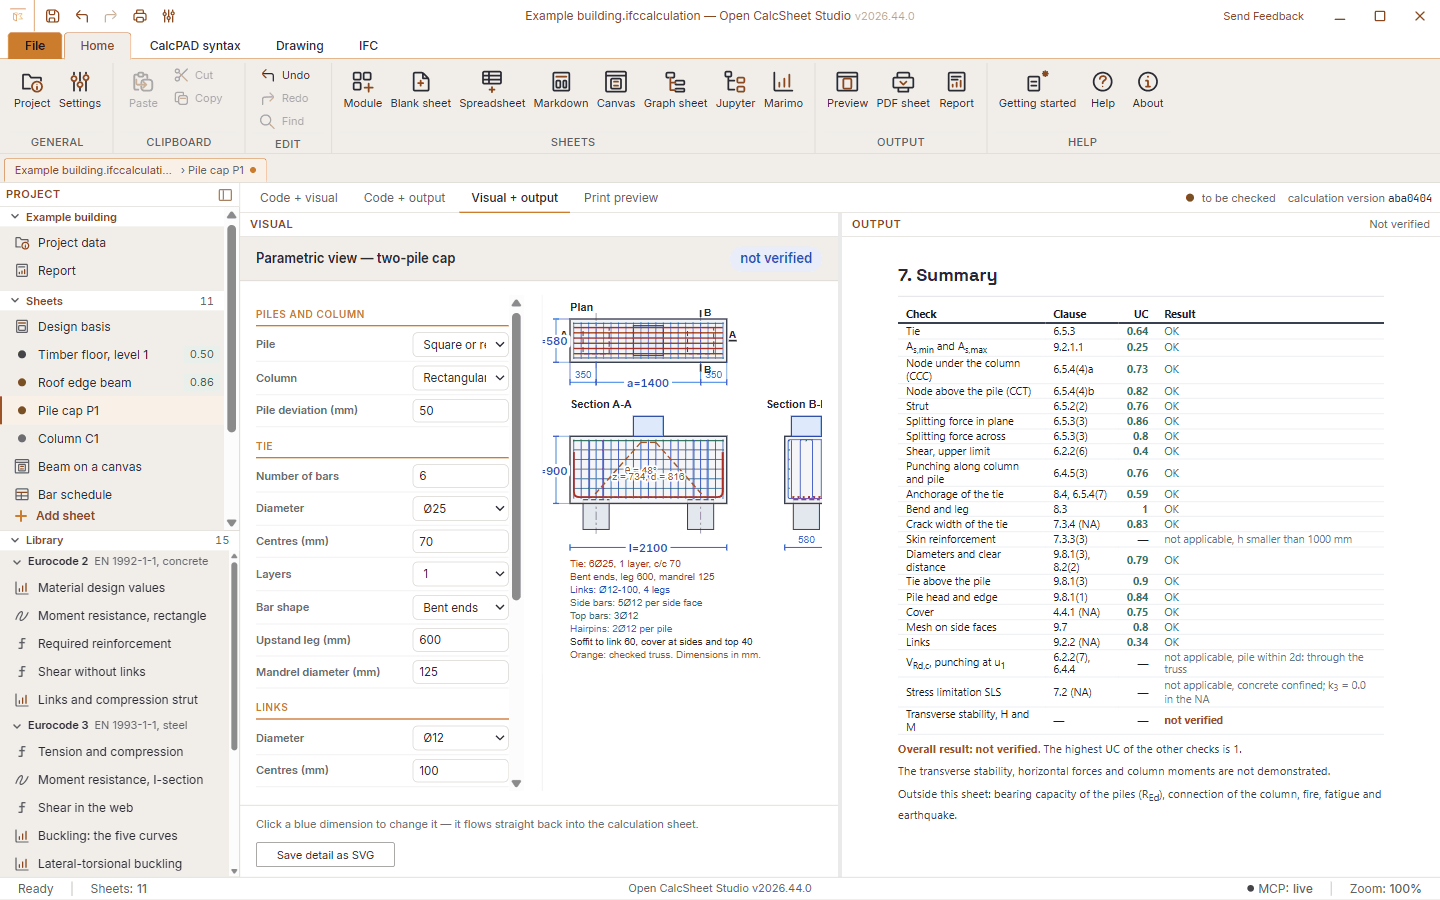
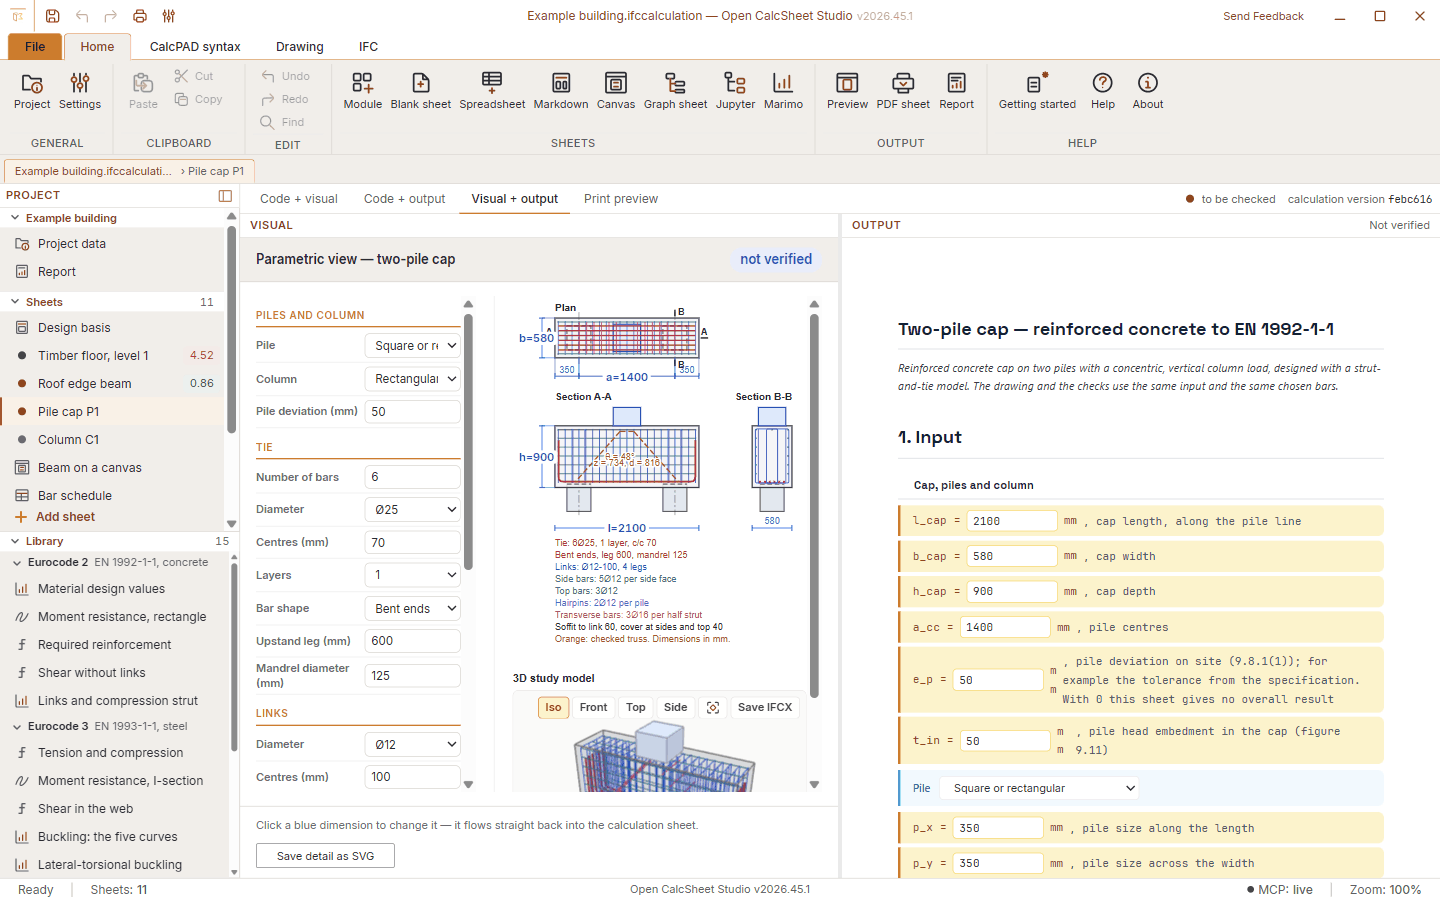
README: 3D-studiemodel, Add module, de rekengrenzen en de nieuwste release

diff --git a/README.nl.md b/README.nl.md
@@ -27,7 +27,7 @@ De app draait op Windows, macOS en Linux en is volop in ontwikkeling: zie [Huidi
 
 ## Downloaden
 
-Er is nog geen stabiele release. De [nightly build](https://github.com/OpenAEC-Foundation/Open-CalcSheet-Studio/releases/tag/nightly) wordt elke dag gemaakt vanaf `main`.
+Download de [nieuwste release](https://github.com/OpenAEC-Foundation/Open-CalcSheet-Studio/releases/latest). De [nightly build](https://github.com/OpenAEC-Foundation/Open-CalcSheet-Studio/releases/tag/nightly) wordt elke dag gemaakt vanaf `main`.
 
 | Platform | Installatiebestand |
 |----------|-----------|
@@ -45,7 +45,7 @@ De releaseworkflow weigert bestanden te publiceren die niet ondertekend zijn: Wi
 - **Je kunt elke stap nalopen.** Een uitkomst toont naam, formule, ingevulde waarden en resultaat, met eenheden.
 - **Eén project, één rapport.** Voorblad, inhoudsopgave en paginanummers lopen door over alle bladen, van welke soort ook.
 - **Het juiste blad voor elk onderdeel.** Tekst, canvas, spreadsheet, nodegraaf, tekening, notebook, Markdown of PDF, naast elkaar in één project.
-- **Verander een getal en de toets volgt.** Bladen rekenen door terwijl je typt, en een tekening kan haar maten uit het blad halen.
+- **Verander een getal en de toets volgt.** Bladen rekenen door terwijl je typt, en een tekening of 3D-model kan zijn maten uit het blad halen.
 - **Je gegevens blijven open.** Het projectbestand is IFCX, en je kunt IFC4x3 exporteren.
 - **Werkt met een AI-assistent.** Een ingebouwde MCP-server en REST-API draaien op je eigen computer, achter een token.
 
@@ -80,12 +80,14 @@ Een project is een lijst bladen. Elke soort staat beschreven in [de documentatie
 
 Modules zijn kant-en-klare bladen met een invoerscherm: een **houten balklaag** en een **ligger van hout of staal** volgens EN 1995-1-1 en EN 1993-1-1, en een **tweepaalspoer** volgens EN 1992-1-1, met de Nederlandse nationale bijlage. De [online modulebibliotheek](https://github.com/OpenAEC-Foundation/Open-CalcSheet-Studio-modules) kan modules toevoegen zonder nieuwe release; voorlopig staat daar de balklaag. Zie [hoe de toetsing van de balklaag werkt](docs/balklaag-toetsing.md) en [die van de poer](docs/tweepaalspoer-toetsing.md).
 
-De formulebibliotheek heeft 137 formules die je met een klik invoegt, elk met een schets die laat zien waar het over gaat. De bibliotheek in het projectpaneel voegt daar 15 uitgewerkte voorbeelden uit de Eurocodes en de klassieke mechanica aan toe. Die voorbeelden zitten niet in de installer: de app haalt ze bij het opstarten op uit deze repository, zodat [een correctie iedereen bereikt](docs/library.md) zonder nieuwe release.
+De tweepaalspoer heeft naast de tekening een 3D-studiemodel. Dat toont de poer, de palen, de kolom en elke staaf, en volgt elk veld en elke blauwe maat meteen. **Add module** toont bij elke keuze een plaatje, van een leeg tekenblad tot een Marimo-notebook.
+
+De formulebibliotheek heeft 137 formules die je met een klik invoegt, elk met een schets die laat zien waar het over gaat. De bibliotheek in het projectpaneel voegt daar 15 uitgewerkte voorbeelden uit de Eurocodes en de klassieke mechanica aan toe. Die voorbeelden zitten niet in de installer: de app haalt ze bij het opstarten op uit deze repository, zodat [een correctie iedereen bereikt](docs/library.md) zonder nieuwe release. De voorbeelden bewaken hun eigen grenzen: de buigwapening waarschuwt bij een overwapende doorsnede of staven die niet passen, en het voorbeeld van de beugels houdt cot θ binnen de grenzen en toetst afstand en minimumwapening.
 
 | | |
 |---|---|
-| ![Een voorbeeld over knik uit de bibliotheek, uitgewerkt naast het paneel, met Invoegen en Nieuw blad](docs/images/readme/library.png) **Een uitgewerkt voorbeeld uit de bibliotheek** | ![Het invoerscherm van een tweepaalspoer met de wapeningstekening](docs/images/readme/two-pile-cap.png) **Tweepaalspoer met wapeningstekening** |
-| ![De formulebibliotheek met een schets naast elke formule](docs/images/readme/formula-library.png) **Formulebibliotheek met een schets per formule** | |
+| ![Een voorbeeld over knik uit de bibliotheek, uitgewerkt naast het paneel, met Invoegen en Nieuw blad](docs/images/readme/library.png) **Een uitgewerkt voorbeeld uit de bibliotheek** | ![Het invoerscherm van een tweepaalspoer met de wapeningstekening en een 3D-studiemodel](docs/images/readme/two-pile-cap.png) **Tweepaalspoer met tekening en 3D-studiemodel** |
+| ![De formulebibliotheek met een schets naast elke formule](docs/images/readme/formula-library.png) **Formulebibliotheek met een schets per formule** | ![Het venster Add module met een plaatje bij elke soort blad en module](docs/images/readme/add-module.png) **Add module, met een plaatje bij elke keuze** |
 
 ## Uitwisseling
 
@@ -100,7 +102,7 @@ De formulebibliotheek heeft 137 formules die je met een klik invoegt, elk met ee
 | **PDF** | Als blad | Ja, het rapport |
 | **DXF** | Omgezet naar een tekening in een blad | Nee |
 
-Elk blad staat met tekst, invoer en uitkomsten in het IFCX-bestand. Tekeningen die het invoerscherm van een module tekent, staan er niet als figuur in, alleen wat de rekentekst zelf tekent. De meeste bladen weten niet waar hun onderdeel in het gebouw zit, dus elementen zonder geometrie staan op de oorsprong van de bouwlaag. Zie [de IFC-documentatie](docs/ifc-export.md).
+Elk blad staat met tekst, invoer en uitkomsten in het IFCX-bestand. Tekeningen die het invoerscherm van een module tekent, staan er niet als figuur in, alleen wat de rekentekst zelf tekent. De tweepaalspoer voegt wel zijn 3D-model toe: in IFC4x3 is elke staaf van de korf een `IfcReinforcingBar`. De meeste bladen weten niet waar hun onderdeel in het gebouw zit, dus elementen zonder geometrie staan op de oorsprong van de bouwlaag. Zie [de IFC-documentatie](docs/ifc-export.md).
 
 ## MCP
 

diff --git a/README.md b/README.md
@@ -27,7 +27,7 @@ It runs on Windows, macOS and Linux. It is under active development: see [Curren
 
 ## Download
 
-There is no stable release yet. The [nightly build](https://github.com/OpenAEC-Foundation/Open-CalcSheet-Studio/releases/tag/nightly) is made from `main` every day.
+Get the [latest release](https://github.com/OpenAEC-Foundation/Open-CalcSheet-Studio/releases/latest). The [nightly build](https://github.com/OpenAEC-Foundation/Open-CalcSheet-Studio/releases/tag/nightly) is made from `main` every day.
 
 | Platform | Installer |
 |----------|-----------|
@@ -45,7 +45,7 @@ The release workflow refuses to publish files that are not signed: Windows with 
 - **You can check every step.** A result shows its name, formula, filled-in values and outcome, with units.
 - **One project, one report.** Cover, table of contents and page numbers run through all sheets, whatever kind they are.
 - **The right sheet for each part.** Text, canvas, spreadsheet, node graph, drawing, notebook, Markdown or PDF, side by side in one project.
-- **Change a number, the check follows.** Sheets recalculate while you type, and a drawing can take its sizes from the sheet.
+- **Change a number, the check follows.** Sheets recalculate while you type, and a drawing or a 3D model can take its sizes from the sheet.
 - **Your data stays open.** The project file is IFCX, and you can export IFC4x3.
 - **Works with an AI assistant.** A built-in MCP server and REST API run on your own computer, behind a token.
 
@@ -78,12 +78,14 @@ A project is a list of sheets. Each kind has a chapter in [the sheet kinds docum
 
 Modules are ready-made sheets with an input screen: a **timber joist floor** and a **beam in timber or steel** to EN 1995-1-1 and EN 1993-1-1, and a **two-pile cap** to EN 1992-1-1, with the Dutch national annex. The [online module library](https://github.com/OpenAEC-Foundation/Open-CalcSheet-Studio-modules) can add modules without a new release; so far it holds the floor. See [how the floor check works](docs/balklaag-toetsing.md) and [the pile cap check](docs/tweepaalspoer-toetsing.md).
 
-The formula library holds 137 formulas you can insert with a click, each with a sketch that shows what it is about. The library in the project panel adds 15 worked examples from the Eurocodes and classical mechanics. Those examples are not in the installer: the app fetches them from this repository when it starts, so [a correction reaches everyone](docs/library.md) without a new release.
+The two-pile cap has a 3D study model next to its drawing. It shows the cap, the piles, the column and every bar, and follows each field and blue dimension at once. **Add module** shows a picture for every choice, from a blank drawing to a Marimo notebook.
+
+The formula library holds 137 formulas you can insert with a click, each with a sketch that shows what it is about. The library in the project panel adds 15 worked examples from the Eurocodes and classical mechanics. Those examples are not in the installer: the app fetches them from this repository when it starts, so [a correction reaches everyone](docs/library.md) without a new release. The examples guard their own limits: required reinforcement warns when a section is over-reinforced or the bars do not fit, and the links example keeps cot θ within its limits and checks spacing and minimum reinforcement.
 
 | | |
 |---|---|
-| ![A library example on buckling worked out next to the panel, with Insert and New sheet](docs/images/readme/library.png) **A worked example from the library** | ![The input screen of a two-pile cap with its reinforcement drawing](docs/images/readme/two-pile-cap.png) **Two-pile cap with reinforcement drawing** |
-| ![The formula library with a sketch next to every formula](docs/images/readme/formula-library.png) **Formula library with a sketch per formula** | |
+| ![A library example on buckling worked out next to the panel, with Insert and New sheet](docs/images/readme/library.png) **A worked example from the library** | ![The input screen of a two-pile cap with its reinforcement drawing and a 3D study model](docs/images/readme/two-pile-cap.png) **Two-pile cap with drawing and 3D study model** |
+| ![The formula library with a sketch next to every formula](docs/images/readme/formula-library.png) **Formula library with a sketch per formula** | ![The Add module window with a picture for every kind of sheet and module](docs/images/readme/add-module.png) **Add module, with a picture for every choice** |
 
 ## Interoperability
 
@@ -98,7 +100,7 @@ The formula library holds 137 formulas you can insert with a click, each with a 
 | **PDF** | As a sheet | Yes, the report |
 | **DXF** | Converted to a drawing in a sheet | No |
 
-Every sheet with its text, input and results is in the IFCX file. Drawings that a module's input screen draws are not stored as figures, only what the calculation text draws itself. Most sheets do not know where their part sits in the building, so elements without geometry are placed at the origin of the storey. See [the IFC documentation](docs/ifc-export.md).
+Every sheet with its text, input and results is in the IFCX file. Drawings that a module's input screen draws are not stored as figures, only what the calculation text draws itself. The two-pile cap does add its 3D model: in IFC4x3 every bar of the cage is an `IfcReinforcingBar`. Most sheets do not know where their part sits in the building, so elements without geometry are placed at the origin of the storey. See [the IFC documentation](docs/ifc-export.md).
 
 ## MCP
 
